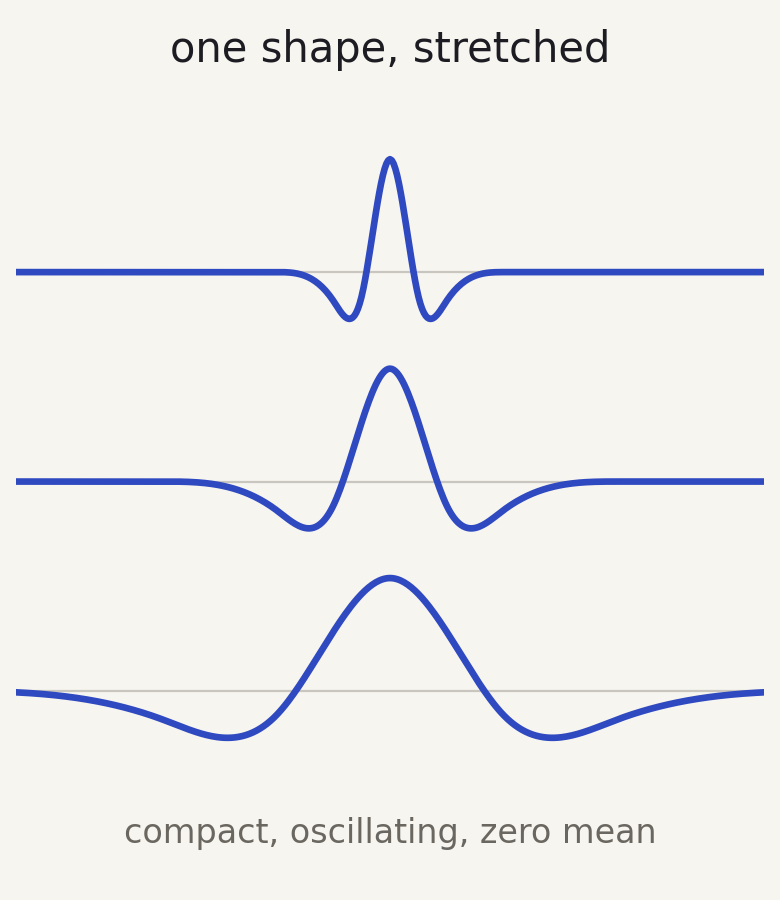
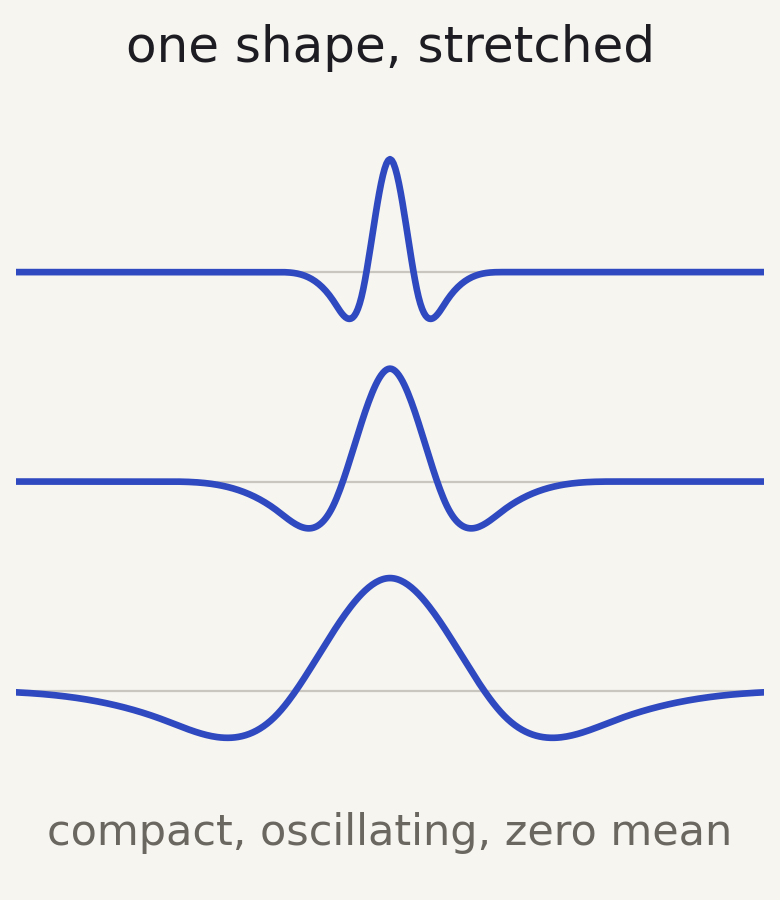
fix(PhD_Defense_2026): frame 30's wavelet figures redrawn at a readable size
"one shape, stretched" and "compact, oscillating, zero mean" are drawn into
wavelet_shape.png, so no stylesheet could reach them. On-canvas size is
points x (dpi/72) x display scale; at dpi 200 and the card's old 20% width
the scale was 0.27, putting the title at 11px and the caption at 9px.

Raised the point sizes in the generator instead of scaling the picture up
past its neighbours: title 15 -> 18pt, caption 12 -> 15.5pt, and the same
treatment on wavelet_transform.png (row labels 12 -> 15pt, scale ticks and
the closing line 11.5 -> 15pt) so the two panels still agree. The wider row
labels needed left margin 0.055 -> 0.085 to clear the axis.

Both now land at 17-20px on the 1200x720 canvas, which is the deck's floor.

Claude-Session: https://claude.ai/code/session_01CmWUCjty7caDD9onTW9WwD

Changed region(s): [[0.0615, 0.9022, 0.9538, 0.9644], [0.5231, 0.0311, 0.8615, 0.0933], [0.1538, 0.0311, 0.4923, 0.0933]]

diff --git a/tools/make-wavelet-excursion.py b/tools/make-wavelet-excursion.py
@@ -96,9 +96,9 @@ for step, off in [(4, 2.30), (5, 1.15), (6, 0.0)]:
     axw.plot(xx[m], p[m] + off, color=ACCENT, lw=2.4, solid_capstyle="round")
 axw.set_xlim(-WIN, WIN)
 axw.set_ylim(-0.95, 3.30)
-axw.set_title("one shape, stretched", color=INK, fontsize=15, pad=10)
+axw.set_title("one shape, stretched", color=INK, fontsize=18, pad=10)
 axw.text(0, -0.78, "compact, oscillating, zero mean",
-         ha="center", va="center", color=MUTED, fontsize=12)
+         ha="center", va="center", color=MUTED, fontsize=15.5)
 for sp in axw.spines.values():
     sp.set_visible(False)
 axw.set_xticks([]); axw.set_yticks([])
@@ -119,26 +119,26 @@ for i, (lab, y, col, sc, lw) in enumerate(rows):
     off = -i * gap
     axb.axhline(off, color=EDGE, lw=0.7, zorder=0)
     axb.plot(t, y / sc * 0.45 + off, color=col, lw=lw, zorder=3)
-    axb.text(-30, off, lab, ha="right", va="center", fontsize=12,
+    axb.text(-30, off, lab, ha="right", va="center", fontsize=15,
              color=INK if i == 0 else MUTED)
 
 for x0, txt in [(150, "small"), (390, "medium"), (630, "large")]:
     axb.annotate(txt, xy=(x0, -len(rows) * gap + 0.55), xytext=(x0, 0.80),
-                 fontsize=11.5, color=MUTED, ha="center",
+                 fontsize=15, color=MUTED, ha="center",
                  arrowprops=dict(arrowstyle="-", color=EDGE, lw=1, ls=(0, (3, 3))))
 
 axb.set_xlim(-110, n + 8)
 axb.set_ylim(-len(rows) * gap - 1.18, 1.20)
 axb.set_title("slide it across the data, at every size", color=INK,
-              fontsize=15, pad=10)
+              fontsize=18, pad=10)
 axb.text(n / 2, -len(rows) * gap - 0.34,
          r"each feature answers in the band that matches its size"
          "\n"
          r"signal $=\ w_1 + w_2 + w_3 + w_4 + c_4$   — nothing is lost",
-         ha="center", fontsize=11.5, color=MUTED)
+         ha="center", fontsize=15, color=MUTED)
 for sp in axb.spines.values():
     sp.set_visible(False)
 axb.set_xticks([]); axb.set_yticks([])
-figB.subplots_adjust(left=0.055, right=0.99, top=0.89, bottom=0.03)
+figB.subplots_adjust(left=0.085, right=0.99, top=0.89, bottom=0.03)
 figB.savefig("assets/diagrams/wavelet_transform.png", dpi=200, facecolor=PAPER)
 print("wrote assets/diagrams/wavelet_transform.png")
